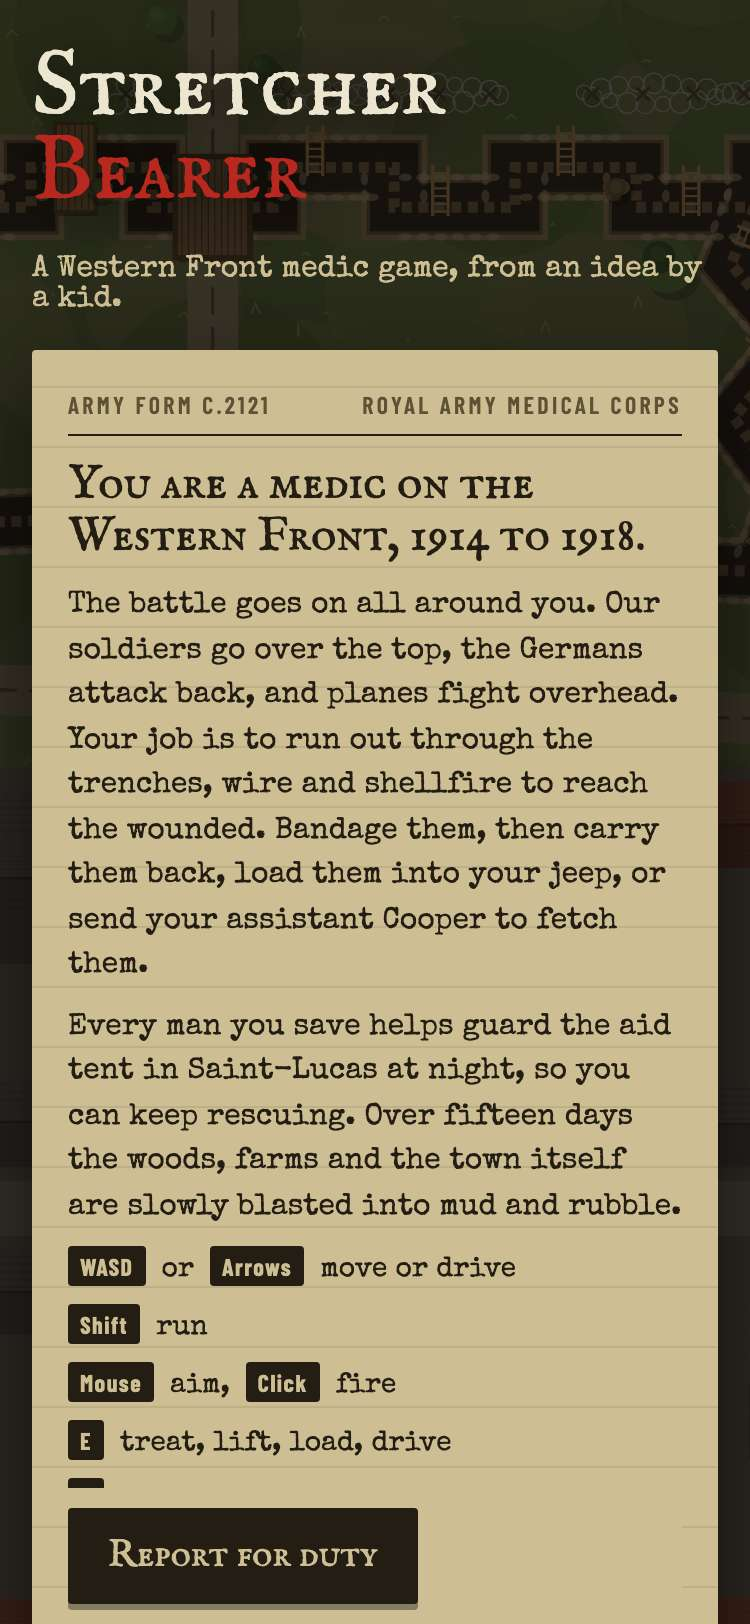
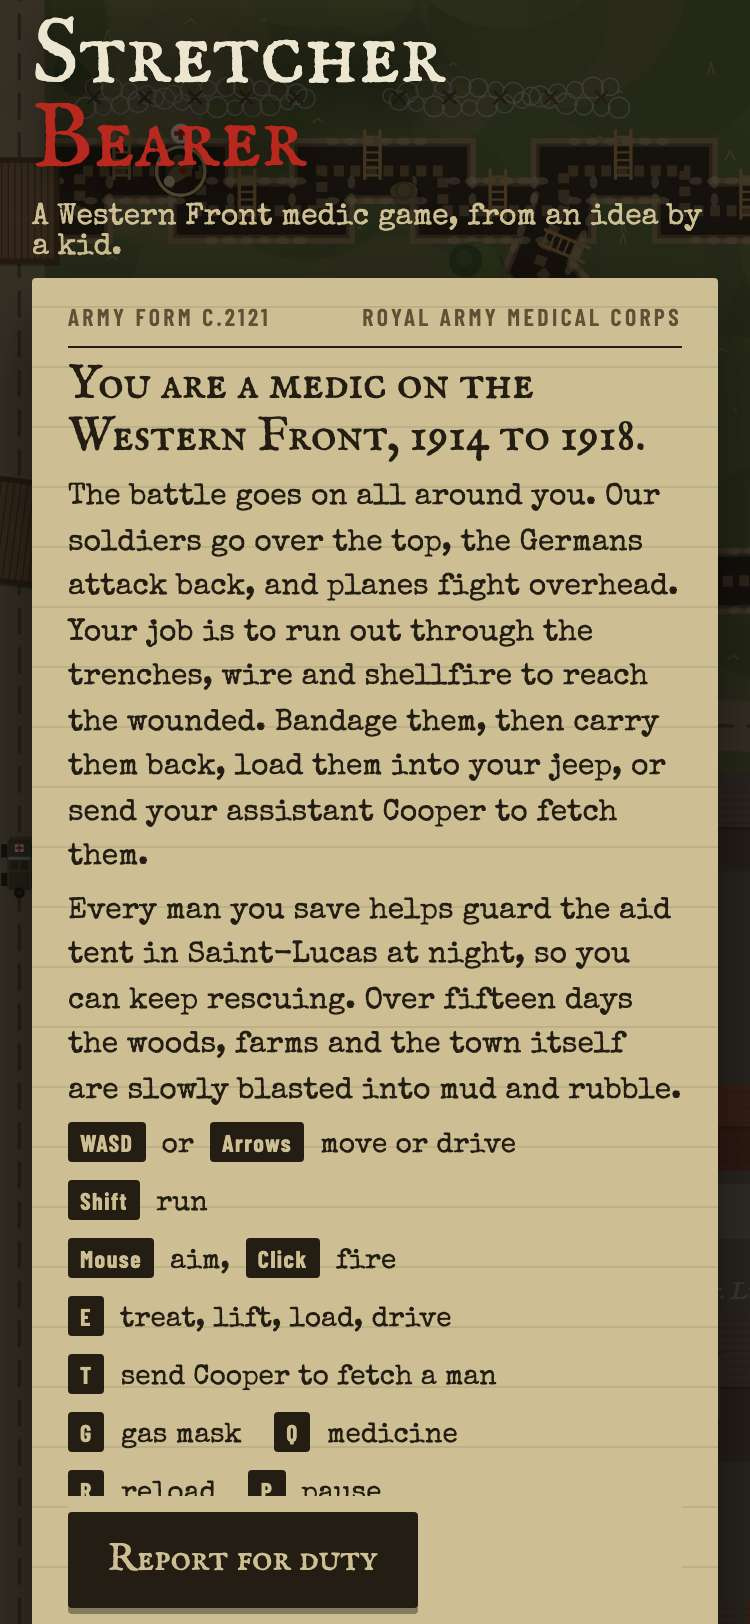
Compare every Stretcher Bearer screen with jeremy.v1 as the player lands on it

diff --git a/evidence/223-stretcher-bearer-jeremy-v2/index.html b/evidence/223-stretcher-bearer-jeremy-v2/index.html
@@ -14,15 +14,16 @@ h1 { font-size: 24px; margin: 0 0 4px; } h2 { font-size: 19px; margin: 28px 0 6p
 .pair img.desktop { width: 640px; } .pair img.phone { width: 220px; }
 </style></head><body>
 <h1>Evidence: 223-stretcher-bearer-jeremy-v2</h1>
-<p class="head">PASS: 9 of 9 checks pass at desktop and phone widths.</p>
-<p class="meta">Against the local server (python3 -m http.server) on this branch, from commit 95ede1a, 2026-10-29 21:48 UTC. Spec: tests/evidence/223-stretcher-bearer-jeremy-v2.spec.mjs.</p>
-<section><h2>1. jeremy.v2 opens to its title and starts a day, with nothing from the internet but jeremy.v1's fonts</h2><p><span class="s ok">Desktop 1280: pass</span> <span class="s ok">Phone 375: pass</span></p><ul><li>desktop: clicked Report for duty and Move out: day 1 started and its clock ran (06:01 → 06:11); outside requests: fonts.googleapis.com, fonts.gstatic.com (Google Fonts, as jeremy.v1); no sideways scrolling</li><li>phone: tapped Report for duty and Move out: day 1 started and its clock ran (06:00 → 06:02); outside requests: fonts.googleapis.com, fonts.gstatic.com (Google Fonts, as jeremy.v1); no sideways scrolling</li></ul><div class="pair"><a href="title-desktop.jpg"><img class="desktop" src="title-desktop.jpg" alt="jeremy.v2 opens to its title and starts a day, with nothing from the internet but jeremy.v1's fonts: title-desktop.jpg" loading="lazy"></a><a href="title-phone.jpg"><img class="phone" src="title-phone.jpg" alt="jeremy.v2 opens to its title and starts a day, with nothing from the internet but jeremy.v1's fonts: title-phone.jpg" loading="lazy"></a></div><div class="pair"><a href="playing-desktop.jpg"><img class="desktop" src="playing-desktop.jpg" alt="jeremy.v2 opens to its title and starts a day, with nothing from the internet but jeremy.v1's fonts: playing-desktop.jpg" loading="lazy"></a><a href="playing-phone.jpg"><img class="phone" src="playing-phone.jpg" alt="jeremy.v2 opens to its title and starts a day, with nothing from the internet but jeremy.v1's fonts: playing-phone.jpg" loading="lazy"></a></div></section>
-<section><h2>2. Report for duty is on screen without scrolling (jeremy.v1's was below the bottom), and so are each screen's buttons</h2><p><span class="s ok">Desktop 1280: pass</span> <span class="s ok">Phone 375: pass</span></p><ul><li>desktop: 1280x800: Report for duty at y 618–666 (jeremy.v1: y 621–663, on screen); Move out ends at 724, Back to the front at 623</li><li>phone: 375x812: Report for duty at y 754–802 (jeremy.v1: y 965–1007, below the screen); Move out ends at 802, Back to the front at 689. 812x375: Report for duty at y 317–365 (jeremy.v1: y 575–617, below the screen); Move out ends at 365, Back to the front at 365. 667x375: Report for duty at y 317–365 (jeremy.v1: y 644–686, below the screen); Move out ends at 365, Back to the front at 365</li></ul><div class="pair"><a href="title-start-phone.jpg"><img class="phone" src="title-start-phone.jpg" alt="Report for duty is on screen without scrolling (jeremy.v1's was below the bottom), and so are each screen's buttons: title-start-phone.jpg" loading="lazy"></a></div></section>
+<p class="head">PASS: 10 of 10 checks pass at desktop and phone widths.</p>
+<p class="meta">Against the local server (python3 -m http.server) on this branch, from commit db52d87, 2026-10-29 22:22 UTC. Spec: tests/evidence/223-stretcher-bearer-jeremy-v2.spec.mjs.</p>
+<section><h2>1. jeremy.v2 opens to its title and starts a day, with nothing from the internet but jeremy.v1's fonts</h2><p><span class="s ok">Desktop 1280: pass</span> <span class="s ok">Phone 375: pass</span></p><ul><li>desktop: clicked Report for duty and Move out: day 1 started and its clock ran (06:06 → 06:40); outside requests: fonts.googleapis.com, fonts.gstatic.com (Google Fonts, as jeremy.v1); no sideways scrolling</li><li>phone: tapped Report for duty and Move out: day 1 started and its clock ran (06:05 → 06:14); outside requests: fonts.googleapis.com, fonts.gstatic.com (Google Fonts, as jeremy.v1); no sideways scrolling</li></ul><div class="pair"><a href="title-desktop.jpg"><img class="desktop" src="title-desktop.jpg" alt="jeremy.v2 opens to its title and starts a day, with nothing from the internet but jeremy.v1's fonts: title-desktop.jpg" loading="lazy"></a><a href="title-phone.jpg"><img class="phone" src="title-phone.jpg" alt="jeremy.v2 opens to its title and starts a day, with nothing from the internet but jeremy.v1's fonts: title-phone.jpg" loading="lazy"></a></div><div class="pair"><a href="playing-desktop.jpg"><img class="desktop" src="playing-desktop.jpg" alt="jeremy.v2 opens to its title and starts a day, with nothing from the internet but jeremy.v1's fonts: playing-desktop.jpg" loading="lazy"></a><a href="playing-phone.jpg"><img class="phone" src="playing-phone.jpg" alt="jeremy.v2 opens to its title and starts a day, with nothing from the internet but jeremy.v1's fonts: playing-phone.jpg" loading="lazy"></a></div></section>
+<section><h2>2. Report for duty is on screen without scrolling (jeremy.v1's was below the bottom), and the rest of the title scrolls into view above it</h2><p><span class="s ok">Desktop 1280: pass</span> <span class="s ok">Phone 375: pass</span></p><ul><li>desktop: 1280x800: Report for duty at y 618–666 (jeremy.v1: y 621–663, on screen); scrolled down, the last line of keys ends at 600, above the button at 618; Move out stays in the slip as in jeremy.v1 and started the day</li><li>phone: 375x812: Report for duty at y 756–804 (jeremy.v1: y 965–1007, below the screen); scrolled down, the last line of keys ends at 628, above the button at 738; Move out stays in the slip as in jeremy.v1 and started the day. 812x375: Report for duty at y 319–367 (jeremy.v1: y 575–617, below the screen); scrolled down, the last line of keys ends at 232, above the button at 297; Move out stays in the slip as in jeremy.v1 and started the day. 667x375: Report for duty at y 319–367 (jeremy.v1: y 644–686, below the screen); scrolled down, the last line of keys ends at 232, above the button at 297; Move out stays in the slip as in jeremy.v1 and started the day</li></ul><div class="pair"><a href="title-start-phone.jpg"><img class="phone" src="title-start-phone.jpg" alt="Report for duty is on screen without scrolling (jeremy.v1's was below the bottom), and the rest of the title scrolls into view above it: title-start-phone.jpg" loading="lazy"></a></div></section>
 <section><h2>3. every screen meets the phone bar: Orders, Sound and Pause 48 px tall and 8 px apart, the action buttons 8 px apart, the screen buttons 48 px tall</h2><p><span class="s ok">Desktop 1280: pass</span> <span class="s ok">Phone 375: pass</span></p><ul><li>desktop: 1280x800: #ordersBtn 62x48, #muteBtn 74x48, #pauseBtn 55x48, [data-a=resume] 189x48, #screen [data-a=new] 167x48, [data-a=next] 114x48, [data-a=retry] 158x48, #screen [data-a=new] 167x48, #screen [data-a=new] 122x48, Orders/Sound/Pause 8 and 8 px apart; touchTargets() found no problems on: title 1 (smallest 48 px), orders slip 1 (smallest 48 px), playing 3 (smallest 48 px), orders open 3 (smallest 48 px), paused 2 (smallest 48 px), night report 1 (smallest 48 px), casualty notice 2 (smallest 48 px), armistice 1 (smallest 48 px). Clicked: Report for duty, Move out, Sound (Sound off), Orders (open and shut), Pause, Back to the front, Start a new war</li><li>phone: 375x812: #ordersBtn 62x48, #muteBtn 74x48, #pauseBtn 55x48, action buttons 8 px apart, [data-a=resume] 189x48, #screen [data-a=new] 167x48, [data-a=next] 114x48, [data-a=retry] 158x48, #screen [data-a=new] 167x48, #screen [data-a=new] 122x48, Orders/Sound/Pause 8 and 8 px apart; touchTargets() found no problems on: title 1 (smallest 48 px), orders slip 1 (smallest 48 px), playing 11 (smallest 48 px), orders open 11 (smallest 48 px), paused 2 (smallest 48 px), night report 1 (smallest 48 px), casualty notice 2 (smallest 48 px), armistice 1 (smallest 48 px). 812x375: #ordersBtn 62x48, #muteBtn 74x48, #pauseBtn 55x48, action buttons 8 px apart, [data-a=resume] 189x48, #screen [data-a=new] 167x48, [data-a=next] 114x48, [data-a=retry] 158x48, #screen [data-a=new] 167x48, #screen [data-a=new] 122x48, Orders/Sound/Pause 8 and 8 px apart; touchTargets() found no problems on: title 1 (smallest 48 px), orders slip 1 (smallest 48 px), playing 11 (smallest 48 px), orders open 11 (smallest 48 px), paused 2 (smallest 48 px), night report 1 (smallest 48 px), casualty notice 2 (smallest 48 px), armistice 1 (smallest 48 px). 667x375: #ordersBtn 62x48, #muteBtn 74x48, #pauseBtn 55x48, action buttons 8 px apart, [data-a=resume] 189x48, #screen [data-a=new] 167x48, [data-a=next] 114x48, [data-a=retry] 158x48, #screen [data-a=new] 167x48, #screen [data-a=new] 122x48, Orders/Sound/Pause 8 and 8 px apart; touchTargets() found no problems on: title 1 (smallest 48 px), orders slip 1 (smallest 48 px), playing 11 (smallest 48 px), orders open 11 (smallest 48 px), paused 2 (smallest 48 px), night report 1 (smallest 48 px), casualty notice 2 (smallest 48 px), armistice 1 (smallest 48 px). Tapped: Report for duty, Move out, Mask (mask on), Sound (Sound off), Orders (open and shut), Pause, Back to the front, Start a new war</li></ul><div class="pair"><a href="playing-bar-desktop.jpg"><img class="desktop" src="playing-bar-desktop.jpg" alt="every screen meets the phone bar: Orders, Sound and Pause 48 px tall and 8 px apart, the action buttons 8 px apart, the screen buttons 48 px tall: playing-bar-desktop.jpg" loading="lazy"></a><a href="playing-bar-phone.jpg"><img class="phone" src="playing-bar-phone.jpg" alt="every screen meets the phone bar: Orders, Sound and Pause 48 px tall and 8 px apart, the action buttons 8 px apart, the screen buttons 48 px tall: playing-bar-phone.jpg" loading="lazy"></a></div><div class="pair"><a href="casualty-desktop.jpg"><img class="desktop" src="casualty-desktop.jpg" alt="every screen meets the phone bar: Orders, Sound and Pause 48 px tall and 8 px apart, the action buttons 8 px apart, the screen buttons 48 px tall: casualty-desktop.jpg" loading="lazy"></a><a href="casualty-phone.jpg"><img class="phone" src="casualty-phone.jpg" alt="every screen meets the phone bar: Orders, Sound and Pause 48 px tall and 8 px apart, the action buttons 8 px apart, the screen buttons 48 px tall: casualty-phone.jpg" loading="lazy"></a></div><div class="pair"><a href="sideways-orders-phone.jpg"><img class="phone" src="sideways-orders-phone.jpg" alt="every screen meets the phone bar: Orders, Sound and Pause 48 px tall and 8 px apart, the action buttons 8 px apart, the screen buttons 48 px tall: sideways-orders-phone.jpg" loading="lazy"></a></div></section>
-<section><h2>4. WASD and the arrow keys both move the medic, Enter and Space press the screen's button, and P or Escape pauses</h2><p><span class="s ok">Desktop 1280: pass</span> <span class="s ">Phone 375: skipped</span></p><ul><li>desktop: Enter pressed Report for duty and Space pressed Move out. Moves from the same spot (dx,dy): d 62,0; ArrowRight 73,0; a -93,0; ArrowLeft -120,0; w 0,-81; ArrowUp 0,-76; s 0,64; ArrowDown 0,63. P paused and Escape went back; Escape paused and P went back</li></ul><div class="pair"><a href="keys-desktop.jpg"><img class="desktop" src="keys-desktop.jpg" alt="WASD and the arrow keys both move the medic, Enter and Space press the screen's button, and P or Escape pauses: keys-desktop.jpg" loading="lazy"></a></div></section>
+<section><h2>4. WASD and the arrow keys both move the medic, Enter and Space press the screen's button, and P or Escape pauses</h2><p><span class="s ok">Desktop 1280: pass</span> <span class="s ">Phone 375: skipped</span></p><ul><li>desktop: Enter pressed Report for duty and Space pressed Move out. Moves from the same spot (dx,dy): d 343,7; ArrowRight 293,0; a -209,0; ArrowLeft -209,6; w 0,-76; ArrowUp 0,-308; s 0,117; ArrowDown 0,189. P paused and Escape went back; Escape paused and P went back</li></ul><div class="pair"><a href="keys-desktop.jpg"><img class="desktop" src="keys-desktop.jpg" alt="WASD and the arrow keys both move the medic, Enter and Space press the screen's button, and P or Escape pauses: keys-desktop.jpg" loading="lazy"></a></div></section>
 <section><h2>5. the HUD keeps everything jeremy.v1 showed whole: nothing is cut off, smaller or covered, side by side at each size</h2><p><span class="s ok">Desktop 1280: pass</span> <span class="s ok">Phone 375: pass</span></p><ul><li>desktop: 1280x800: 25 HUD parts, 25 shown whole in jeremy.v1 and 25 in jeremy.v2; jeremy.v1's controls overlapped: ordersBtn/score, muteBtn/score. 1280x800 with Orders open: 24 HUD parts, 24 shown whole in jeremy.v1 and 24 in jeremy.v2; jeremy.v1's controls overlapped: ordersBtn/score, muteBtn/score</li><li>phone: 375x812: 24 HUD parts, 23 shown whole in jeremy.v1 and 24 in jeremy.v2 (uncovered now: score 95%→100%); jeremy.v1's controls overlapped: ordersBtn/score. 375x812 with Orders open: 25 HUD parts, 24 shown whole in jeremy.v1 and 25 in jeremy.v2 (uncovered now: score 95%→100%); jeremy.v1's controls overlapped: ordersBtn/score. 812x375: 24 HUD parts, 18 shown whole in jeremy.v1 and 24 in jeremy.v2 (uncovered now: status 94%→100%, .inv &gt; div 87%→100%, .inv &gt; div 63%→100%, miniWrap 89%→100%, mini 87%→100%, score 22%→100%); jeremy.v1's controls overlapped: ordersBtn/tMask, ordersBtn/tCoop, ordersBtn/score, muteBtn/tMed, muteBtn/tReload, muteBtn/tRun, muteBtn/tFire, muteBtn/score, pauseBtn/tReload, pauseBtn/tFire, stick/status, tMask/miniWrap, tMask/score, tMed/miniWrap, tReload/miniWrap. 812x375 with Orders open: 24 HUD parts, 18 shown whole in jeremy.v1 and 24 in jeremy.v2 (uncovered now: status 94%→100%, .inv &gt; div 87%→100%, .inv &gt; div 63%→100%, miniWrap 89%→100%, mini 87%→100%, score 22%→100%); jeremy.v1's controls overlapped: ordersBtn/tMask, ordersBtn/tCoop, ordersBtn/score, muteBtn/tMed, muteBtn/tReload, muteBtn/tRun, muteBtn/tFire, muteBtn/score, pauseBtn/tReload, pauseBtn/tFire, stick/status, tMask/miniWrap, tMask/score, tMed/miniWrap, tReload/miniWrap. 667x375: 24 HUD parts, 18 shown whole in jeremy.v1 and 24 in jeremy.v2 (uncovered now: status 94%→100%, .inv &gt; div 87%→100%, .inv &gt; div 63%→100%, miniWrap 89%→100%, mini 87%→100%, score 22%→100%); jeremy.v1's controls overlapped: ordersBtn/tMask, ordersBtn/tCoop, ordersBtn/score, muteBtn/tMed, muteBtn/tReload, muteBtn/tRun, muteBtn/tFire, muteBtn/score, pauseBtn/tReload, pauseBtn/tFire, stick/status, tMask/miniWrap, tMask/score, tMed/miniWrap, tReload/miniWrap. 667x375 with Orders open: 24 HUD parts, 18 shown whole in jeremy.v1 and 24 in jeremy.v2 (uncovered now: status 94%→100%, .inv &gt; div 87%→100%, .inv &gt; div 63%→100%, miniWrap 89%→100%, mini 87%→100%, score 22%→100%); jeremy.v1's controls overlapped: ordersBtn/tMask, ordersBtn/tCoop, ordersBtn/score, muteBtn/tMed, muteBtn/tReload, muteBtn/tRun, muteBtn/tFire, muteBtn/score, pauseBtn/tReload, pauseBtn/tFire, stick/status, tMask/miniWrap, tMask/score, tMed/miniWrap, tReload/miniWrap</li></ul><div class="pair"><a href="hud-1280-desktop.jpg"><img class="desktop" src="hud-1280-desktop.jpg" alt="the HUD keeps everything jeremy.v1 showed whole: nothing is cut off, smaller or covered, side by side at each size: hud-1280-desktop.jpg" loading="lazy"></a></div><div class="pair"><a href="hud-375-phone.jpg"><img class="phone" src="hud-375-phone.jpg" alt="the HUD keeps everything jeremy.v1 showed whole: nothing is cut off, smaller or covered, side by side at each size: hud-375-phone.jpg" loading="lazy"></a></div><div class="pair"><a href="hud-812-phone.jpg"><img class="phone" src="hud-812-phone.jpg" alt="the HUD keeps everything jeremy.v1 showed whole: nothing is cut off, smaller or covered, side by side at each size: hud-812-phone.jpg" loading="lazy"></a></div></section>
-<section><h2>6. the controls cover no more of the battlefield than jeremy.v1's, beyond the 18 px the idea adds to Orders, Sound and Pause, and none moves into the middle</h2><p><span class="s ok">Desktop 1280: pass</span> <span class="s ok">Phone 375: pass</span></p><ul><li>desktop: 1280x800: controls cover 5730 px² (0.6%) in jeremy.v1 and 9168 px² (0.9%) in jeremy.v2, +3438 (the 48 px heights add up to 3439); in the middle quarter of the screen 0 → 0 px²</li><li>phone: 375x812: controls cover 44250 px² (14.5%) in jeremy.v1 and 47792 px² (15.7%) in jeremy.v2, +3542 (the 48 px heights add up to 3543); in the middle quarter of the screen 0 → 0 px². 812x375: controls cover 52686 px² (17.3%) in jeremy.v1 and 47792 px² (15.7%) in jeremy.v2, -4894; in the middle quarter of the screen 1119 → 0 px². 667x375: controls cover 52686 px² (21.1%) in jeremy.v1 and 47792 px² (19.1%) in jeremy.v2, -4894; in the middle quarter of the screen 5596 → 1738 px²</li></ul></section>
-<section><h2>7. jeremy.v1's best score carries over: v2 shows it, keeps it under sb-best, and v1 reads back a new best</h2><p><span class="s ok">Desktop 1280: pass</span> <span class="s ok">Phone 375: pass</span></p><ul><li>desktop: seeded jeremy.v1's sb-best (4321, day 7): jeremy.v2's title showed it; a game over at 0 left it; one at 5000 replaced it as {score: 5000, day: 1}; keys afterwards: sb-best (jeremy.v1's own key, nothing new); jeremy.v1 then showed 5000, day 1</li><li>phone: seeded jeremy.v1's sb-best (4321, day 7): jeremy.v2's title showed it; a game over at 0 left it; one at 5000 replaced it as {score: 5000, day: 1}; keys afterwards: sb-best (jeremy.v1's own key, nothing new); jeremy.v1 then showed 5000, day 1</li></ul><div class="pair"><a href="v1-best-desktop.jpg"><img class="desktop" src="v1-best-desktop.jpg" alt="jeremy.v1's best score carries over: v2 shows it, keeps it under sb-best, and v1 reads back a new best: v1-best-desktop.jpg" loading="lazy"></a><a href="v1-best-phone.jpg"><img class="phone" src="v1-best-phone.jpg" alt="jeremy.v1's best score carries over: v2 shows it, keeps it under sb-best, and v1 reads back a new best: v1-best-phone.jpg" loading="lazy"></a></div></section>
-<section><h2>8. jeremy.v1 still plays at games/stretcher-bearer/jeremy.v1/, unchanged</h2><p><span class="s ok">Desktop 1280: pass</span> <span class="s ok">Phone 375: pass</span></p><ul><li>desktop: jeremy.v1 at games/stretcher-bearer/jeremy.v1/: Report for duty, Move out, and its clock ran; its Pause is still 55x30</li><li>phone: jeremy.v1 at games/stretcher-bearer/jeremy.v1/: Report for duty, Move out, and its clock ran; its Pause is still 55x30</li></ul><div class="pair"><a href="v1-plays-desktop.jpg"><img class="desktop" src="v1-plays-desktop.jpg" alt="jeremy.v1 still plays at games/stretcher-bearer/jeremy.v1/, unchanged: v1-plays-desktop.jpg" loading="lazy"></a><a href="v1-plays-phone.jpg"><img class="phone" src="v1-plays-phone.jpg" alt="jeremy.v1 still plays at games/stretcher-bearer/jeremy.v1/, unchanged: v1-plays-phone.jpg" loading="lazy"></a></div></section>
-<section><h2>9. in the arcade, Stretcher Bearer plays jeremy.v2 by default and the picker still offers jeremy.v1</h2><p><span class="s ok">Desktop 1280: pass</span> <span class="s ok">Phone 375: pass</span></p><ul><li>desktop: card (2 versions) → picker: jeremy.v2 first with its note, then jeremy.v1 → jeremy.v2 plays in the frame (Report for duty → the day's orders); #stretcher-bearer@jeremy.v1 opens jeremy.v1</li><li>phone: card (2 versions) → picker: jeremy.v2 first with its note, then jeremy.v1 → jeremy.v2 plays in the frame (Report for duty → the day's orders); #stretcher-bearer@jeremy.v1 opens jeremy.v1</li></ul><div class="pair"><a href="arcade-desktop.jpg"><img class="desktop" src="arcade-desktop.jpg" alt="in the arcade, Stretcher Bearer plays jeremy.v2 by default and the picker still offers jeremy.v1: arcade-desktop.jpg" loading="lazy"></a><a href="arcade-phone.jpg"><img class="phone" src="arcade-phone.jpg" alt="in the arcade, Stretcher Bearer plays jeremy.v2 by default and the picker still offers jeremy.v1: arcade-phone.jpg" loading="lazy"></a></div></section>
+<section><h2>6. every screen as the player lands on it keeps whole what jeremy.v1 showed whole: title, orders, pause, night report, casualty notice, armistice</h2><p><span class="s ok">Desktop 1280: pass</span> <span class="s ok">Phone 375: pass</span></p><ul><li>desktop: 1024x768: whole in jeremy.v1 → jeremy.v2: title 16→16 of 16, orders 11→11 of 13, pause 15→15 of 15, night report 11→11 of 11, casualty notice 9→9 of 9, armistice 8→8 of 10. 1280x800: whole in jeremy.v1 → jeremy.v2: title 16→16 of 16, orders 11→11 of 13, pause 15→15 of 15, night report 11→11 of 11, casualty notice 9→9 of 9, armistice 8→8 of 10. 1366x768: whole in jeremy.v1 → jeremy.v2: title 16→16 of 16, orders 11→11 of 13, pause 15→15 of 15, night report 11→11 of 11, casualty notice 9→9 of 9, armistice 8→8 of 10. Every line jeremy.v1 showed whole is whole in jeremy.v2, and none is cut off</li><li>phone: 375x812: whole in jeremy.v1 → jeremy.v2: title 12→13 of 17, orders 9→9 of 13, pause 15→15 of 15, night report 11→11 of 11, casualty notice 9→9 of 9, armistice 8→8 of 10. 812x375: whole in jeremy.v1 → jeremy.v2: title 5→6 of 17, orders 6→6 of 13, pause 12→12 of 15, night report 10→10 of 11, casualty notice 9→9 of 9, armistice 7→7 of 10. 667x375: whole in jeremy.v1 → jeremy.v2: title 4→5 of 17, orders 6→6 of 13, pause 12→12 of 15, night report 10→10 of 11, casualty notice 9→9 of 9, armistice 7→7 of 10. Every line jeremy.v1 showed whole is whole in jeremy.v2, and none is cut off</li></ul><div class="pair"><a href="screens-1024-desktop.jpg"><img class="desktop" src="screens-1024-desktop.jpg" alt="every screen as the player lands on it keeps whole what jeremy.v1 showed whole: title, orders, pause, night report, casualty notice, armistice: screens-1024-desktop.jpg" loading="lazy"></a></div><div class="pair"><a href="screens-812-phone.jpg"><img class="phone" src="screens-812-phone.jpg" alt="every screen as the player lands on it keeps whole what jeremy.v1 showed whole: title, orders, pause, night report, casualty notice, armistice: screens-812-phone.jpg" loading="lazy"></a></div></section>
+<section><h2>7. the controls cover no more of the battlefield than jeremy.v1's, beyond the 18 px the idea adds to Orders, Sound and Pause, and none moves into the middle</h2><p><span class="s ok">Desktop 1280: pass</span> <span class="s ok">Phone 375: pass</span></p><ul><li>desktop: 1280x800: controls cover 5730 px² (0.6%) in jeremy.v1 and 9168 px² (0.9%) in jeremy.v2, +3438 (the 48 px heights add up to 3439); in the middle quarter of the screen 0 → 0 px²</li><li>phone: 375x812: controls cover 44250 px² (14.5%) in jeremy.v1 and 47792 px² (15.7%) in jeremy.v2, +3542 (the 48 px heights add up to 3543); in the middle quarter of the screen 0 → 0 px². 812x375: controls cover 52686 px² (17.3%) in jeremy.v1 and 47792 px² (15.7%) in jeremy.v2, -4894; in the middle quarter of the screen 1119 → 0 px². 667x375: controls cover 52686 px² (21.1%) in jeremy.v1 and 47792 px² (19.1%) in jeremy.v2, -4894; in the middle quarter of the screen 5596 → 1738 px²</li></ul></section>
+<section><h2>8. jeremy.v1's best score carries over: v2 shows it, keeps it under sb-best, and v1 reads back a new best</h2><p><span class="s ok">Desktop 1280: pass</span> <span class="s ok">Phone 375: pass</span></p><ul><li>desktop: seeded jeremy.v1's sb-best (4321, day 7): jeremy.v2's title showed it; a game over at 0 left it; one at 5000 replaced it as {score: 5000, day: 1}; keys afterwards: sb-best (jeremy.v1's own key, nothing new); jeremy.v1 then showed 5000, day 1</li><li>phone: seeded jeremy.v1's sb-best (4321, day 7): jeremy.v2's title showed it; a game over at 0 left it; one at 5000 replaced it as {score: 5000, day: 1}; keys afterwards: sb-best (jeremy.v1's own key, nothing new); jeremy.v1 then showed 5000, day 1</li></ul><div class="pair"><a href="v1-best-desktop.jpg"><img class="desktop" src="v1-best-desktop.jpg" alt="jeremy.v1's best score carries over: v2 shows it, keeps it under sb-best, and v1 reads back a new best: v1-best-desktop.jpg" loading="lazy"></a><a href="v1-best-phone.jpg"><img class="phone" src="v1-best-phone.jpg" alt="jeremy.v1's best score carries over: v2 shows it, keeps it under sb-best, and v1 reads back a new best: v1-best-phone.jpg" loading="lazy"></a></div></section>
+<section><h2>9. jeremy.v1 still plays at games/stretcher-bearer/jeremy.v1/, unchanged</h2><p><span class="s ok">Desktop 1280: pass</span> <span class="s ok">Phone 375: pass</span></p><ul><li>desktop: jeremy.v1 at games/stretcher-bearer/jeremy.v1/: Report for duty, Move out, and its clock ran; its Pause is still 55x30</li><li>phone: jeremy.v1 at games/stretcher-bearer/jeremy.v1/: Report for duty, Move out, and its clock ran; its Pause is still 55x30</li></ul><div class="pair"><a href="v1-plays-desktop.jpg"><img class="desktop" src="v1-plays-desktop.jpg" alt="jeremy.v1 still plays at games/stretcher-bearer/jeremy.v1/, unchanged: v1-plays-desktop.jpg" loading="lazy"></a><a href="v1-plays-phone.jpg"><img class="phone" src="v1-plays-phone.jpg" alt="jeremy.v1 still plays at games/stretcher-bearer/jeremy.v1/, unchanged: v1-plays-phone.jpg" loading="lazy"></a></div></section>
+<section><h2>10. in the arcade, Stretcher Bearer plays jeremy.v2 by default and the picker still offers jeremy.v1</h2><p><span class="s ok">Desktop 1280: pass</span> <span class="s ok">Phone 375: pass</span></p><ul><li>desktop: card (2 versions) → picker: jeremy.v2 first with its note, then jeremy.v1 → jeremy.v2 plays in the frame (Report for duty → the day's orders); #stretcher-bearer@jeremy.v1 opens jeremy.v1</li><li>phone: card (2 versions) → picker: jeremy.v2 first with its note, then jeremy.v1 → jeremy.v2 plays in the frame (Report for duty → the day's orders); #stretcher-bearer@jeremy.v1 opens jeremy.v1</li></ul><div class="pair"><a href="arcade-desktop.jpg"><img class="desktop" src="arcade-desktop.jpg" alt="in the arcade, Stretcher Bearer plays jeremy.v2 by default and the picker still offers jeremy.v1: arcade-desktop.jpg" loading="lazy"></a><a href="arcade-phone.jpg"><img class="phone" src="arcade-phone.jpg" alt="in the arcade, Stretcher Bearer plays jeremy.v2 by default and the picker still offers jeremy.v1: arcade-phone.jpg" loading="lazy"></a></div></section>
 </body></html>

diff --git a/evidence/223-stretcher-bearer-jeremy-v2/README.md b/evidence/223-stretcher-bearer-jeremy-v2/README.md
@@ -1,16 +1,17 @@
 # Evidence: 223-stretcher-bearer-jeremy-v2
 
-**PASS: 9 of 9 checks pass at desktop and phone widths.**
+**PASS: 10 of 10 checks pass at desktop and phone widths.**
 
-Generated by `npm run evidence -- 223-stretcher-bearer-jeremy-v2` from [`tests/evidence/223-stretcher-bearer-jeremy-v2.spec.mjs`](../../tests/evidence/223-stretcher-bearer-jeremy-v2.spec.mjs) against the local server (python3 -m http.server) on this branch, starting from commit 95ede1a, 2026-10-29 21:48 UTC. Rules: [docs/evidence.md](../../docs/evidence.md).
+Generated by `npm run evidence -- 223-stretcher-bearer-jeremy-v2` from [`tests/evidence/223-stretcher-bearer-jeremy-v2.spec.mjs`](../../tests/evidence/223-stretcher-bearer-jeremy-v2.spec.mjs) against the local server (python3 -m http.server) on this branch, starting from commit db52d87, 2026-10-29 22:22 UTC. Rules: [docs/evidence.md](../../docs/evidence.md).
 
 | Check | Desktop 1280 | Phone 375 |
 |---|---|---|
 | jeremy.v2 opens to its title and starts a day, with nothing from the internet but jeremy.v1's fonts | pass | pass |
-| Report for duty is on screen without scrolling (jeremy.v1's was below the bottom), and so are each screen's buttons | pass | pass |
+| Report for duty is on screen without scrolling (jeremy.v1's was below the bottom), and the rest of the title scrolls into view above it | pass | pass |
 | every screen meets the phone bar: Orders, Sound and Pause 48 px tall and 8 px apart, the action buttons 8 px apart, the screen buttons 48 px tall | pass | pass |
 | WASD and the arrow keys both move the medic, Enter and Space press the screen's button, and P or Escape pauses | pass | skipped |
 | the HUD keeps everything jeremy.v1 showed whole: nothing is cut off, smaller or covered, side by side at each size | pass | pass |
+| every screen as the player lands on it keeps whole what jeremy.v1 showed whole: title, orders, pause, night report, casualty notice, armistice | pass | pass |
 | the controls cover no more of the battlefield than jeremy.v1's, beyond the 18 px the idea adds to Orders, Sound and Pause, and none moves into the middle | pass | pass |
 | jeremy.v1's best score carries over: v2 shows it, keeps it under sb-best, and v1 reads back a new best | pass | pass |
 | jeremy.v1 still plays at games/stretcher-bearer/jeremy.v1/, unchanged | pass | pass |
@@ -18,19 +19,19 @@ Generated by `npm run evidence -- 223-stretcher-bearer-jeremy-v2` from [`tests/e
 
 ## 1. jeremy.v2 opens to its title and starts a day, with nothing from the internet but jeremy.v1's fonts
 
-- desktop: clicked Report for duty and Move out: day 1 started and its clock ran (06:01 → 06:11); outside requests: fonts.googleapis.com, fonts.gstatic.com (Google Fonts, as jeremy.v1); no sideways scrolling
-- phone: tapped Report for duty and Move out: day 1 started and its clock ran (06:00 → 06:02); outside requests: fonts.googleapis.com, fonts.gstatic.com (Google Fonts, as jeremy.v1); no sideways scrolling
+- desktop: clicked Report for duty and Move out: day 1 started and its clock ran (06:06 → 06:40); outside requests: fonts.googleapis.com, fonts.gstatic.com (Google Fonts, as jeremy.v1); no sideways scrolling
+- phone: tapped Report for duty and Move out: day 1 started and its clock ran (06:05 → 06:14); outside requests: fonts.googleapis.com, fonts.gstatic.com (Google Fonts, as jeremy.v1); no sideways scrolling
 
 <img src="title-desktop.jpg" alt="jeremy.v2 opens to its title and starts a day, with nothing from the internet but jeremy.v1's fonts: title-desktop.jpg" width="560"> <img src="title-phone.jpg" alt="jeremy.v2 opens to its title and starts a day, with nothing from the internet but jeremy.v1's fonts: title-phone.jpg" width="240">
 
 <img src="playing-desktop.jpg" alt="jeremy.v2 opens to its title and starts a day, with nothing from the internet but jeremy.v1's fonts: playing-desktop.jpg" width="560"> <img src="playing-phone.jpg" alt="jeremy.v2 opens to its title and starts a day, with nothing from the internet but jeremy.v1's fonts: playing-phone.jpg" width="240">
 
-## 2. Report for duty is on screen without scrolling (jeremy.v1's was below the bottom), and so are each screen's buttons
+## 2. Report for duty is on screen without scrolling (jeremy.v1's was below the bottom), and the rest of the title scrolls into view above it
 
-- desktop: 1280x800: Report for duty at y 618–666 (jeremy.v1: y 621–663, on screen); Move out ends at 724, Back to the front at 623
-- phone: 375x812: Report for duty at y 754–802 (jeremy.v1: y 965–1007, below the screen); Move out ends at 802, Back to the front at 689. 812x375: Report for duty at y 317–365 (jeremy.v1: y 575–617, below the screen); Move out ends at 365, Back to the front at 365. 667x375: Report for duty at y 317–365 (jeremy.v1: y 644–686, below the screen); Move out ends at 365, Back to the front at 365
+- desktop: 1280x800: Report for duty at y 618–666 (jeremy.v1: y 621–663, on screen); scrolled down, the last line of keys ends at 600, above the button at 618; Move out stays in the slip as in jeremy.v1 and started the day
+- phone: 375x812: Report for duty at y 756–804 (jeremy.v1: y 965–1007, below the screen); scrolled down, the last line of keys ends at 628, above the button at 738; Move out stays in the slip as in jeremy.v1 and started the day. 812x375: Report for duty at y 319–367 (jeremy.v1: y 575–617, below the screen); scrolled down, the last line of keys ends at 232, above the button at 297; Move out stays in the slip as in jeremy.v1 and started the day. 667x375: Report for duty at y 319–367 (jeremy.v1: y 644–686, below the screen); scrolled down, the last line of keys ends at 232, above the button at 297; Move out stays in the slip as in jeremy.v1 and started the day
 
-<img src="title-start-phone.jpg" alt="Report for duty is on screen without scrolling (jeremy.v1's was below the bottom), and so are each screen's buttons: title-start-phone.jpg" width="240">
+<img src="title-start-phone.jpg" alt="Report for duty is on screen without scrolling (jeremy.v1's was below the bottom), and the rest of the title scrolls into view above it: title-start-phone.jpg" width="240">
 
 ## 3. every screen meets the phone bar: Orders, Sound and Pause 48 px tall and 8 px apart, the action buttons 8 px apart, the screen buttons 48 px tall
 
@@ -45,7 +46,7 @@ Generated by `npm run evidence -- 223-stretcher-bearer-jeremy-v2` from [`tests/e
 
 ## 4. WASD and the arrow keys both move the medic, Enter and Space press the screen's button, and P or Escape pauses
 
-- desktop: Enter pressed Report for duty and Space pressed Move out. Moves from the same spot (dx,dy): d 62,0; ArrowRight 73,0; a -93,0; ArrowLeft -120,0; w 0,-81; ArrowUp 0,-76; s 0,64; ArrowDown 0,63. P paused and Escape went back; Escape paused and P went back
+- desktop: Enter pressed Report for duty and Space pressed Move out. Moves from the same spot (dx,dy): d 343,7; ArrowRight 293,0; a -209,0; ArrowLeft -209,6; w 0,-76; ArrowUp 0,-308; s 0,117; ArrowDown 0,189. P paused and Escape went back; Escape paused and P went back
 
 <img src="keys-desktop.jpg" alt="WASD and the arrow keys both move the medic, Enter and Space press the screen's button, and P or Escape pauses: keys-desktop.jpg" width="560">
 
@@ -60,26 +61,35 @@ Generated by `npm run evidence -- 223-stretcher-bearer-jeremy-v2` from [`tests/e
 
 <img src="hud-812-phone.jpg" alt="the HUD keeps everything jeremy.v1 showed whole: nothing is cut off, smaller or covered, side by side at each size: hud-812-phone.jpg" width="240">
 
-## 6. the controls cover no more of the battlefield than jeremy.v1's, beyond the 18 px the idea adds to Orders, Sound and Pause, and none moves into the middle
+## 6. every screen as the player lands on it keeps whole what jeremy.v1 showed whole: title, orders, pause, night report, casualty notice, armistice
+
+- desktop: 1024x768: whole in jeremy.v1 → jeremy.v2: title 16→16 of 16, orders 11→11 of 13, pause 15→15 of 15, night report 11→11 of 11, casualty notice 9→9 of 9, armistice 8→8 of 10. 1280x800: whole in jeremy.v1 → jeremy.v2: title 16→16 of 16, orders 11→11 of 13, pause 15→15 of 15, night report 11→11 of 11, casualty notice 9→9 of 9, armistice 8→8 of 10. 1366x768: whole in jeremy.v1 → jeremy.v2: title 16→16 of 16, orders 11→11 of 13, pause 15→15 of 15, night report 11→11 of 11, casualty notice 9→9 of 9, armistice 8→8 of 10. Every line jeremy.v1 showed whole is whole in jeremy.v2, and none is cut off
+- phone: 375x812: whole in jeremy.v1 → jeremy.v2: title 12→13 of 17, orders 9→9 of 13, pause 15→15 of 15, night report 11→11 of 11, casualty notice 9→9 of 9, armistice 8→8 of 10. 812x375: whole in jeremy.v1 → jeremy.v2: title 5→6 of 17, orders 6→6 of 13, pause 12→12 of 15, night report 10→10 of 11, casualty notice 9→9 of 9, armistice 7→7 of 10. 667x375: whole in jeremy.v1 → jeremy.v2: title 4→5 of 17, orders 6→6 of 13, pause 12→12 of 15, night report 10→10 of 11, casualty notice 9→9 of 9, armistice 7→7 of 10. Every line jeremy.v1 showed whole is whole in jeremy.v2, and none is cut off
+
+<img src="screens-1024-desktop.jpg" alt="every screen as the player lands on it keeps whole what jeremy.v1 showed whole: title, orders, pause, night report, casualty notice, armistice: screens-1024-desktop.jpg" width="560">
+
+<img src="screens-812-phone.jpg" alt="every screen as the player lands on it keeps whole what jeremy.v1 showed whole: title, orders, pause, night report, casualty notice, armistice: screens-812-phone.jpg" width="240">
+
+## 7. the controls cover no more of the battlefield than jeremy.v1's, beyond the 18 px the idea adds to Orders, Sound and Pause, and none moves into the middle
 
 - desktop: 1280x800: controls cover 5730 px² (0.6%) in jeremy.v1 and 9168 px² (0.9%) in jeremy.v2, +3438 (the 48 px heights add up to 3439); in the middle quarter of the screen 0 → 0 px²
 - phone: 375x812: controls cover 44250 px² (14.5%) in jeremy.v1 and 47792 px² (15.7%) in jeremy.v2, +3542 (the 48 px heights add up to 3543); in the middle quarter of the screen 0 → 0 px². 812x375: controls cover 52686 px² (17.3%) in jeremy.v1 and 47792 px² (15.7%) in jeremy.v2, -4894; in the middle quarter of the screen 1119 → 0 px². 667x375: controls cover 52686 px² (21.1%) in jeremy.v1 and 47792 px² (19.1%) in jeremy.v2, -4894; in the middle quarter of the screen 5596 → 1738 px²
 
-## 7. jeremy.v1's best score carries over: v2 shows it, keeps it under sb-best, and v1 reads back a new best
+## 8. jeremy.v1's best score carries over: v2 shows it, keeps it under sb-best, and v1 reads back a new best
 
 - desktop: seeded jeremy.v1's sb-best (4321, day 7): jeremy.v2's title showed it; a game over at 0 left it; one at 5000 replaced it as {score: 5000, day: 1}; keys afterwards: sb-best (jeremy.v1's own key, nothing new); jeremy.v1 then showed 5000, day 1
 - phone: seeded jeremy.v1's sb-best (4321, day 7): jeremy.v2's title showed it; a game over at 0 left it; one at 5000 replaced it as {score: 5000, day: 1}; keys afterwards: sb-best (jeremy.v1's own key, nothing new); jeremy.v1 then showed 5000, day 1
 
 <img src="v1-best-desktop.jpg" alt="jeremy.v1's best score carries over: v2 shows it, keeps it under sb-best, and v1 reads back a new best: v1-best-desktop.jpg" width="560"> <img src="v1-best-phone.jpg" alt="jeremy.v1's best score carries over: v2 shows it, keeps it under sb-best, and v1 reads back a new best: v1-best-phone.jpg" width="240">
 
-## 8. jeremy.v1 still plays at games/stretcher-bearer/jeremy.v1/, unchanged
+## 9. jeremy.v1 still plays at games/stretcher-bearer/jeremy.v1/, unchanged
 
 - desktop: jeremy.v1 at games/stretcher-bearer/jeremy.v1/: Report for duty, Move out, and its clock ran; its Pause is still 55x30
 - phone: jeremy.v1 at games/stretcher-bearer/jeremy.v1/: Report for duty, Move out, and its clock ran; its Pause is still 55x30
 
 <img src="v1-plays-desktop.jpg" alt="jeremy.v1 still plays at games/stretcher-bearer/jeremy.v1/, unchanged: v1-plays-desktop.jpg" width="560"> <img src="v1-plays-phone.jpg" alt="jeremy.v1 still plays at games/stretcher-bearer/jeremy.v1/, unchanged: v1-plays-phone.jpg" width="240">
 
-## 9. in the arcade, Stretcher Bearer plays jeremy.v2 by default and the picker still offers jeremy.v1
+## 10. in the arcade, Stretcher Bearer plays jeremy.v2 by default and the picker still offers jeremy.v1
 
 - desktop: card (2 versions) → picker: jeremy.v2 first with its note, then jeremy.v1 → jeremy.v2 plays in the frame (Report for duty → the day's orders); #stretcher-bearer@jeremy.v1 opens jeremy.v1
 - phone: card (2 versions) → picker: jeremy.v2 first with its note, then jeremy.v1 → jeremy.v2 plays in the frame (Report for duty → the day's orders); #stretcher-bearer@jeremy.v1 opens jeremy.v1
